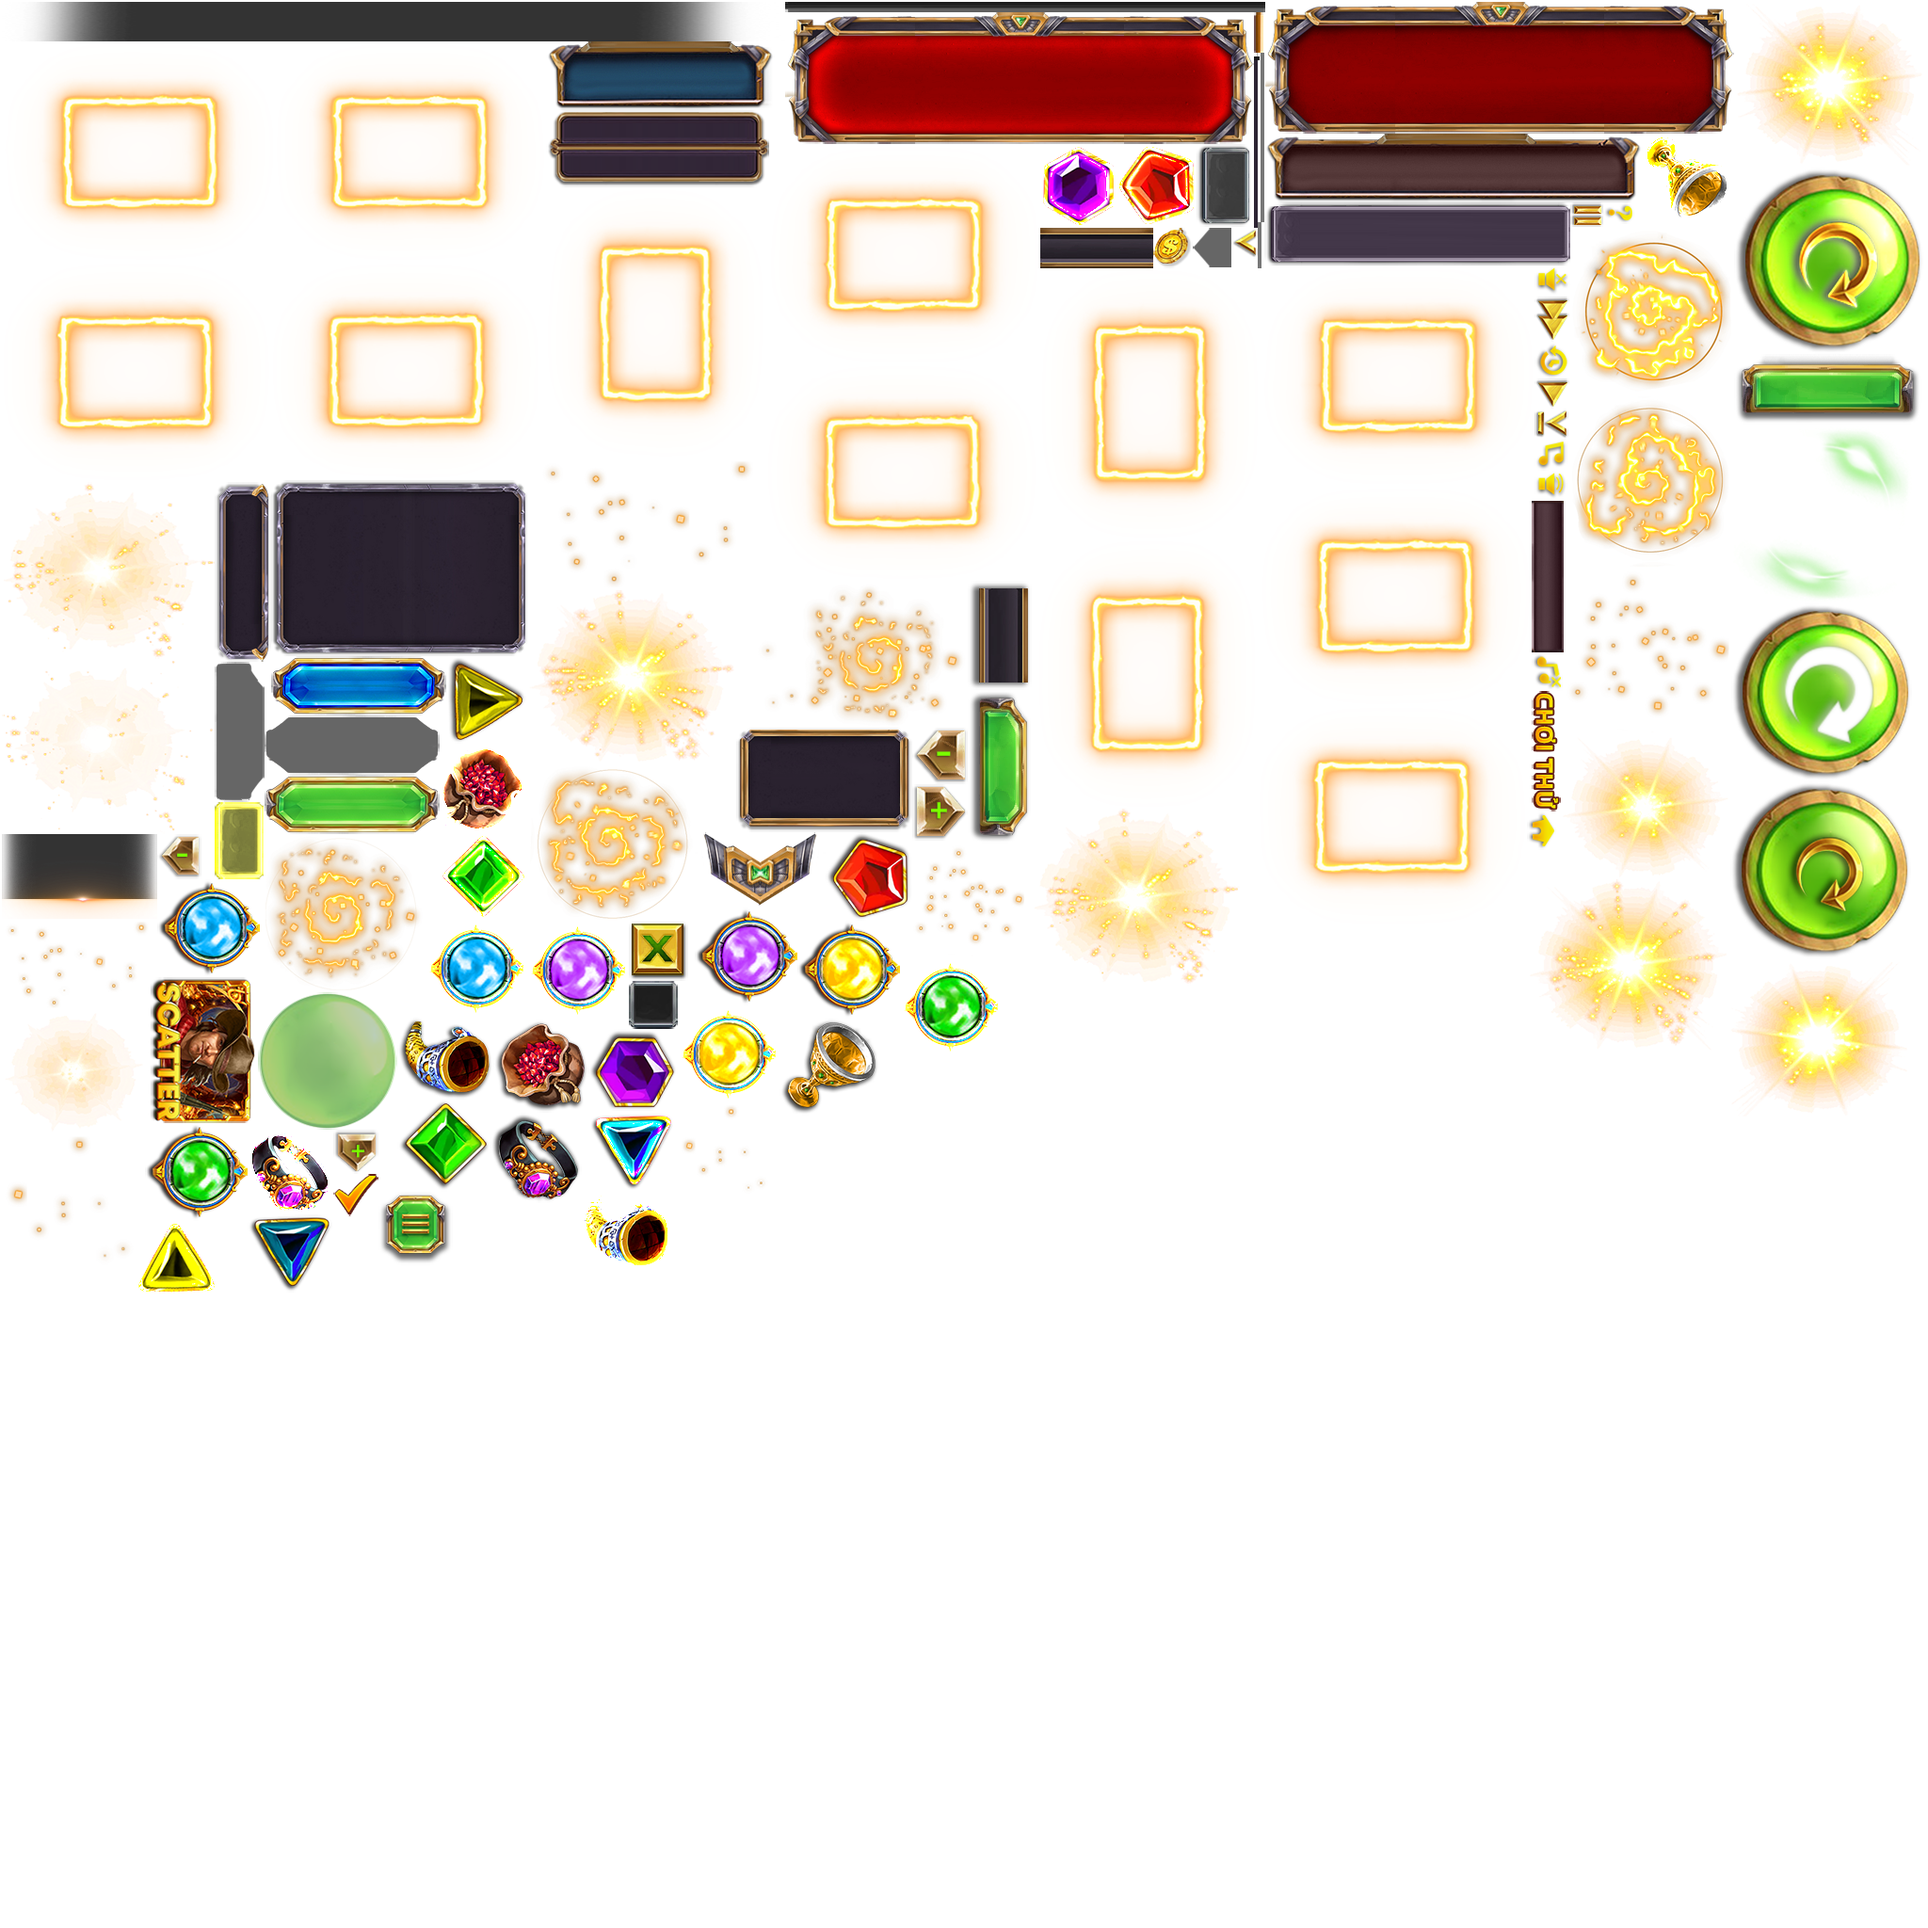
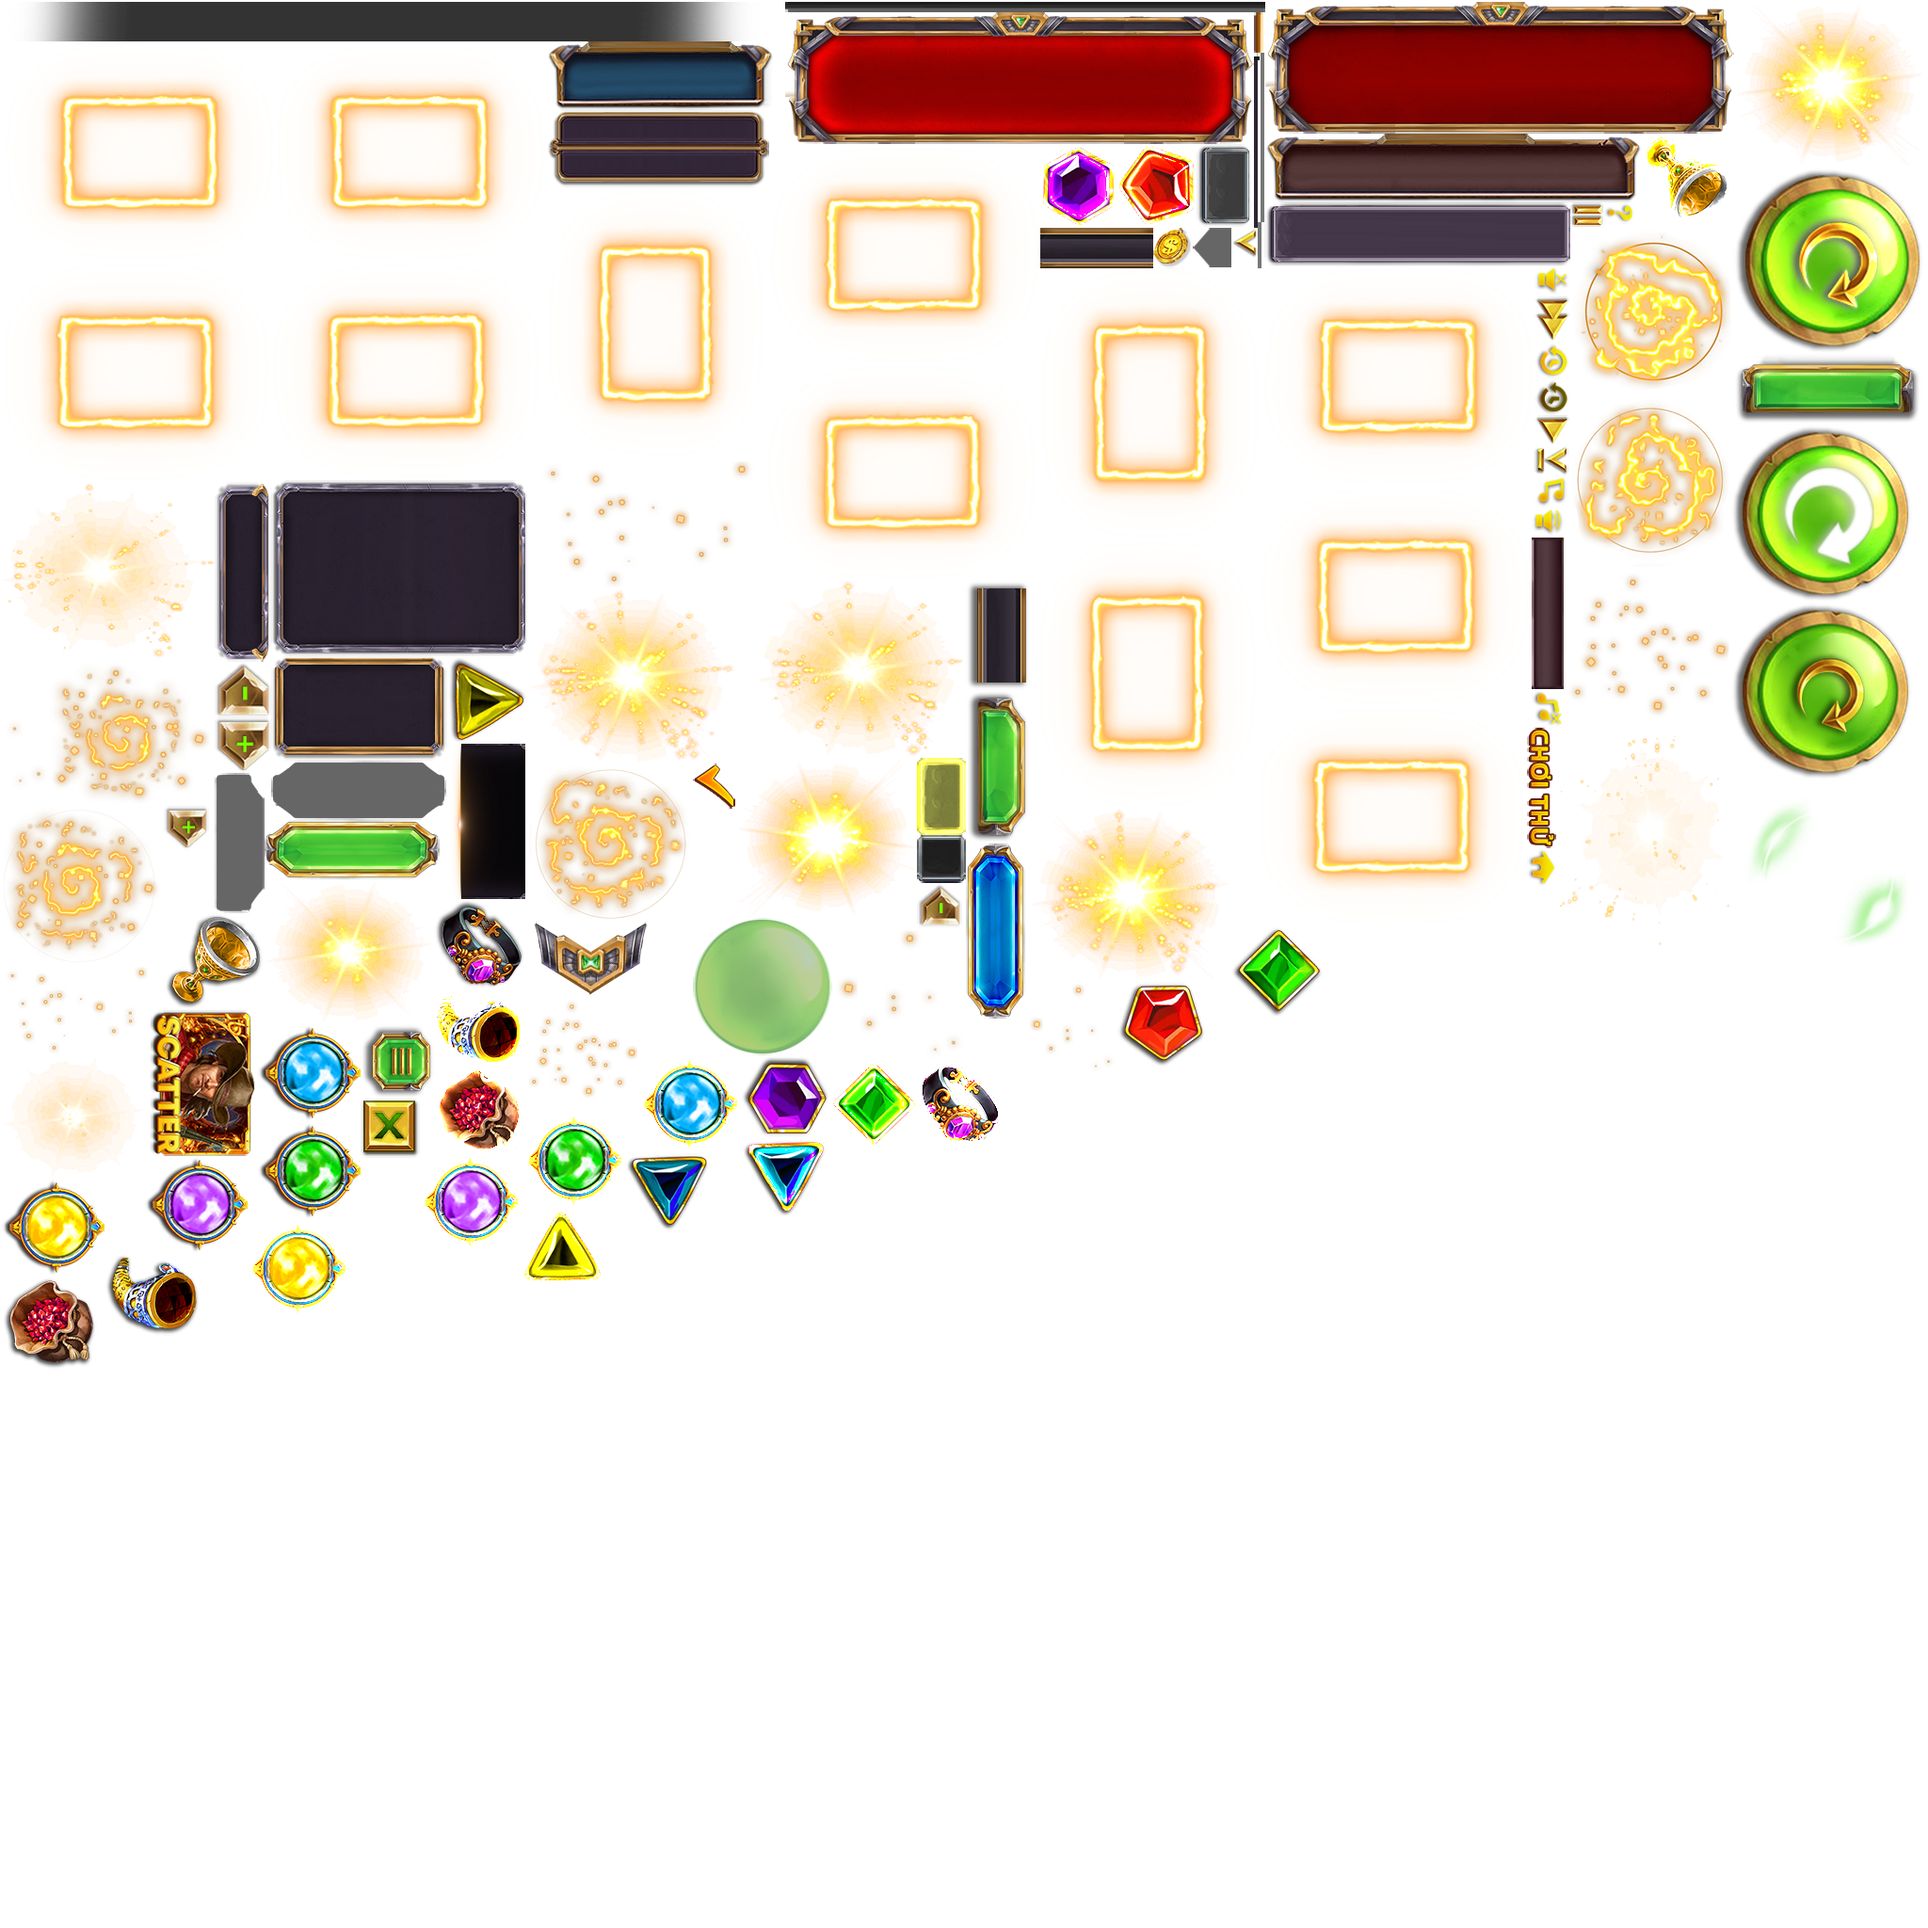
feat: add img for treasure

Changed region(s): [[0.0, 0.3125, 0.6875, 0.7188], [0.7812, 0.2188, 1.0, 0.5938], [0.7812, 0.1875, 0.8125, 0.2812]]

diff --git a/0_texturepacker/pack-resources.py b/0_texturepacker/pack-resources.py
@@ -8,7 +8,7 @@ if __name__ == '__main__':
     current_dir = os.path.dirname(os.path.realpath(__file__))
     project_dir = os.path.join(current_dir, '..')
 
-    images_dir = 'chan-le'
+    images_dir = 'treasure-island'
 
     # Pack.
     packer_path = os.path.join(
